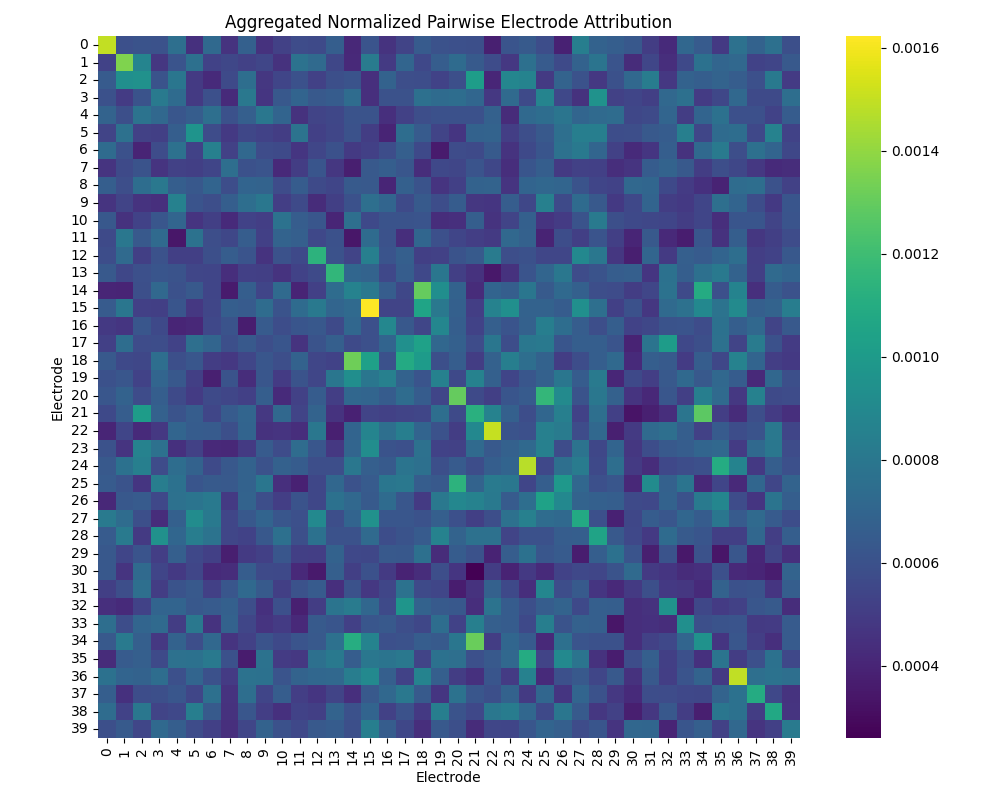
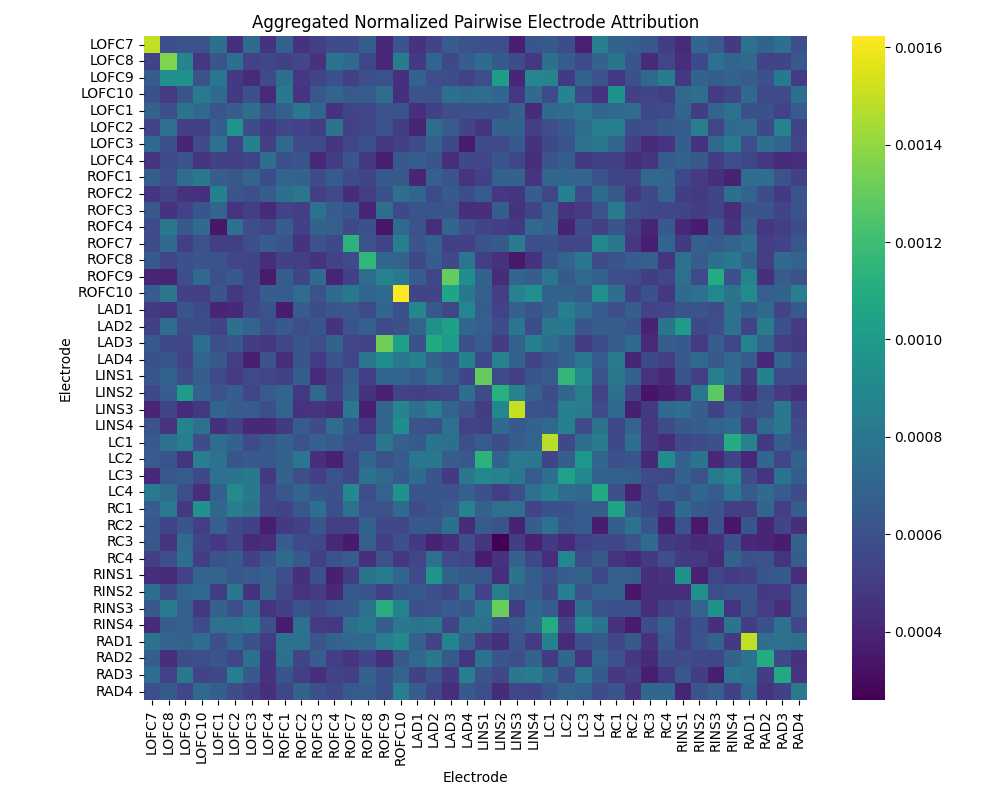
attribution map with mask

diff --git a/src/aggregate_covariances.py b/src/aggregate_covariances.py
@@ -5,6 +5,16 @@ import seaborn as sns
 
 patient_ids = ["239", "272", "304"]  # or however many you have
 N = 40
+ELECTRODE_NAMES = [
+    'LOFC7', 'LOFC8', 'LOFC9', 'LOFC10', 'LOFC1', 'LOFC2', 'LOFC3', 'LOFC4', 
+    'ROFC1', 'ROFC2', 'ROFC3', 'ROFC4', 'ROFC7', 'ROFC8', 'ROFC9', 'ROFC10', 
+    'LAD1', 'LAD2', 'LAD3', 'LAD4',
+    'LINS1', 'LINS2', 'LINS3', 'LINS4',
+    'LC1', 'LC2', 'LC3', 'LC4',
+    'RC1', 'RC2', 'RC3', 'RC4',
+    'RINS1', 'RINS2', 'RINS3', 'RINS4',
+    'RAD1', 'RAD2', 'RAD3', 'RAD4'
+]
 
 sum_matrix = np.zeros((N, N))
 count_matrix = np.zeros((N, N))
@@ -41,7 +51,7 @@ np.save(output_dir / "aggregated_covariance_normalized.npy", summary_cov)
 
 # === Plot
 plt.figure(figsize=(10, 8))
-sns.heatmap(summary_cov, cmap="viridis", square=True, cbar=True)
+sns.heatmap(summary_cov, cmap="viridis", square=True, cbar=True, xticklabels=ELECTRODE_NAMES, yticklabels=ELECTRODE_NAMES)
 plt.title("Aggregated Normalized Pairwise Electrode Attribution")
 plt.xlabel("Electrode")
 plt.ylabel("Electrode")
